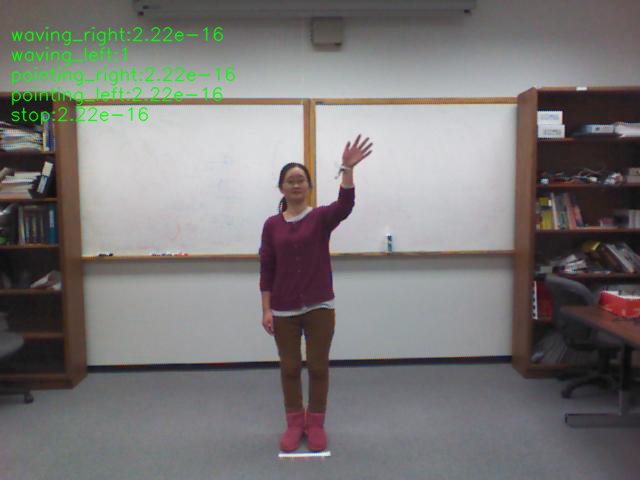
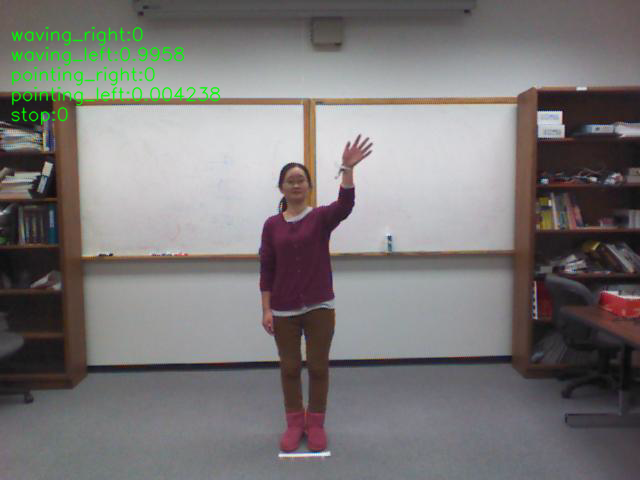
added printing fucntion

Changed region(s): [[0.0938, 0.0625, 0.375, 0.25]]

diff --git a/gesture_classification.py b/gesture_classification.py
@@ -2,11 +2,8 @@ import cv2
 import numpy as np
 from numpy import linalg as la
 import argparse
-# import csv
-# import glob
 from time import time
-# import operator
-from utility import load_configuration_from_file, store_model, save_report
+from utility import load_configuration_from_file, store_model, save_report, print_prediction_result
 from collections import Counter
 
 from sklearn import cross_validation
@@ -31,7 +28,7 @@ parser.add_argument('--train', help='Start training the models if this argument 
 parser.add_argument('--pred', help='Run prediction if the argument is set to true')
 parser.add_argument('--features', default='sample_features.npz', help='Openpose features stored in numpy format')
 parser.add_argument('--image', default='sample_image.png', help='Input image')
-parser.add_argument('--model', default='adaboost.pkl',  help='Specify path to the model used for prediction')
+parser.add_argument('--model', default='random_forest.pkl',  help='Specify path to the model used for prediction')
 parser.add_argument('--pretrained', default='true',  help='Use pretrained models for prediction')
 
 args = parser.parse_args()
@@ -46,7 +43,7 @@ path_to_tr_data = None
 header = None
 model_config = None
 persist_models_dir = None
-
+feature_number = 120
 
 
 def init():
@@ -58,6 +55,7 @@ def init():
 	classification_report = HOMEDIR + config['data_file_config']['classification_report']
 	persist_models_dir = HOMEDIR + config['data_file_config']['persist_models_dir']
 	header = config['data_file_config']['header']
+	feature_number = config['data_file_config']['feature_number']
 
 
 def preapere_data_for_training():
@@ -172,11 +170,11 @@ def load_model_and_predict():
 	else:
 		model = HOMEDIR + persist_models_dir + args.model
 	clf = joblib.load(model)
+	
 	features = np.load(args.features)['features']
+	assert features.reshape(1, -1).shape[1] == feature_number, 'Expected 120 features'
 	result = clf.predict_proba(features.reshape(1, -1))
-	
-	assert features.reshape(1, -1).shape[1] > 0, 'Expected 120 features'
-	
+	print_prediction_result(result[0], header[1:])
 	mat = cv2.imread(args.image)
 	text_as_str = []
 	text_as_str.append('waving_right:{0:.4g}'.format(result[0][0]))

diff --git a/utility.py b/utility.py
@@ -67,13 +67,9 @@ def translate_begin_of_coordinate(data, path_to_csv):
     np.savetxt(path_to_csv, data_new, delimiter=';', fmt='%1.6f') 
 
 
-
-
 def store_model(path, model):
     modelname =  path +  '.pkl'
     joblib.dump(model, modelname)
-
-
 
 
 def save_report(path, classifier_name, report):
@@ -82,3 +78,7 @@ def save_report(path, classifier_name, report):
         report_file.write('\n')
         report_file.write(report)
 
+def print_prediction_result(result=[], classes=[]):
+    assert len(classes)==len(result)
+    for (conf, cl) in zip(result, classes):
+        print(cl+': {0:.4g}'.format(conf))
